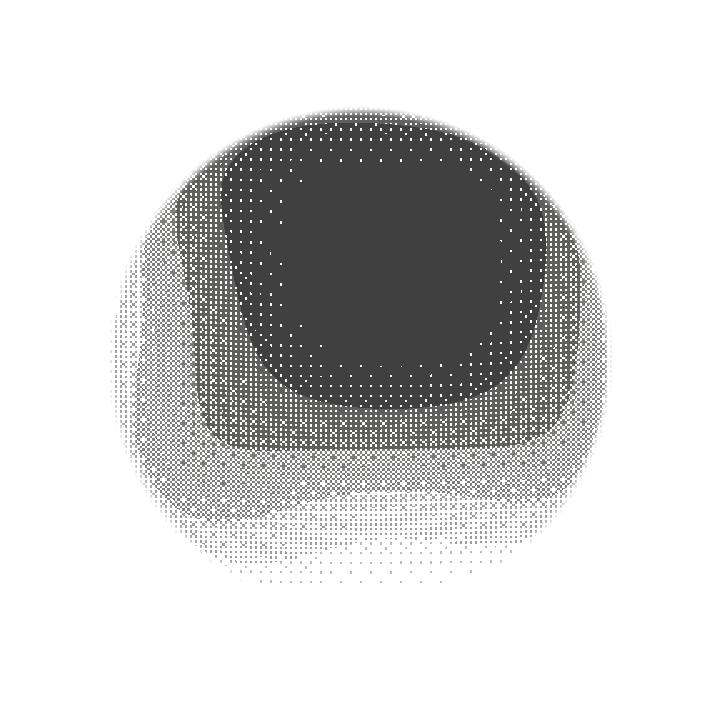
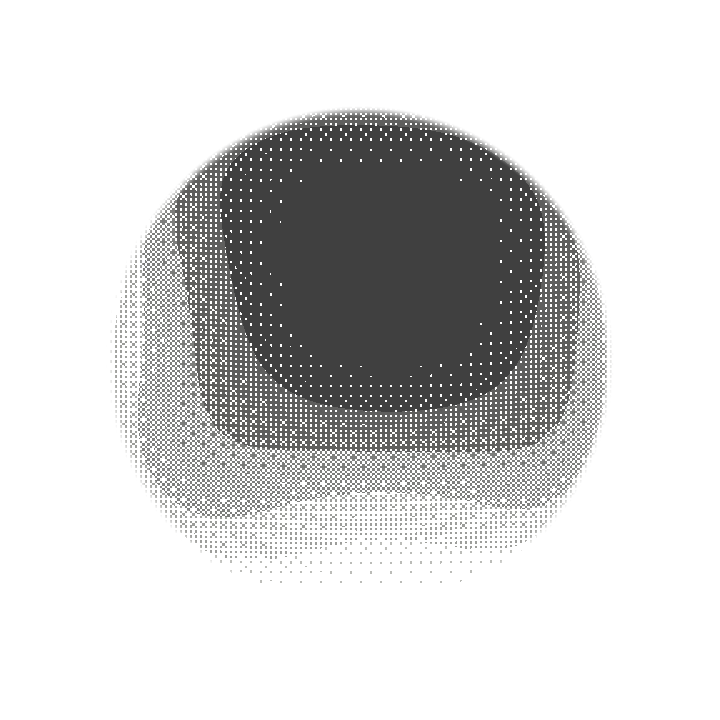
Export README headers with transparent backgrounds

diff --git a/tools/visuals/README.md b/tools/visuals/README.md
@@ -23,9 +23,12 @@ tools/visuals/export-visuals
 
 This crops the preserved source artwork, builds the production site in a
 temporary directory, captures the actual landing renderer with a fixed browser
-clock, and writes light/dark PNGs, eight-second GIFs, and sphere fallbacks into
+clock, and writes transparent light/dark PNGs, eight-second GIFs, and sphere fallbacks into
 `assets/visuals/`. The export recipe lives in `export.mjs`; there are no command
 configuration flags. Commit regenerated assets with changes to the effects.
+
+PNGs retain smooth alpha. GIFs use ordered Bayer coverage for their one-bit
+transparency, preserving faint ink without a baked-in background or edge halo.
 
 The Playwright version and browser revision are pinned by `package-lock.json`.
 Frame timing and artwork are fixed. GPU rendering and ffmpeg versions can still

diff --git a/assets/visuals/README.md b/assets/visuals/README.md
@@ -4,7 +4,8 @@
 - `manicule.png`: original generated engraved pointer, cropped and reduced from
   `source/manicule.png`. CSS points it toward the tour label.
 - `readme-{light,dark}.{gif,png}`: README banners, rendered from the same sphere
-  and lettering effects as the website. PNGs serve reduced-motion readers.
+  and lettering effects as the website, with transparent backgrounds. Light mode
+  uses dark ink; dark mode uses light ink. PNGs serve reduced-motion readers.
 - `sphere-{light,dark}.png`: the website's no-JavaScript/no-WebGL fallback.
 - `source/prompts.json`: generation prompts for the selected artwork. The raster
   sources are preserved; prompts document provenance, not deterministic regeneration.
